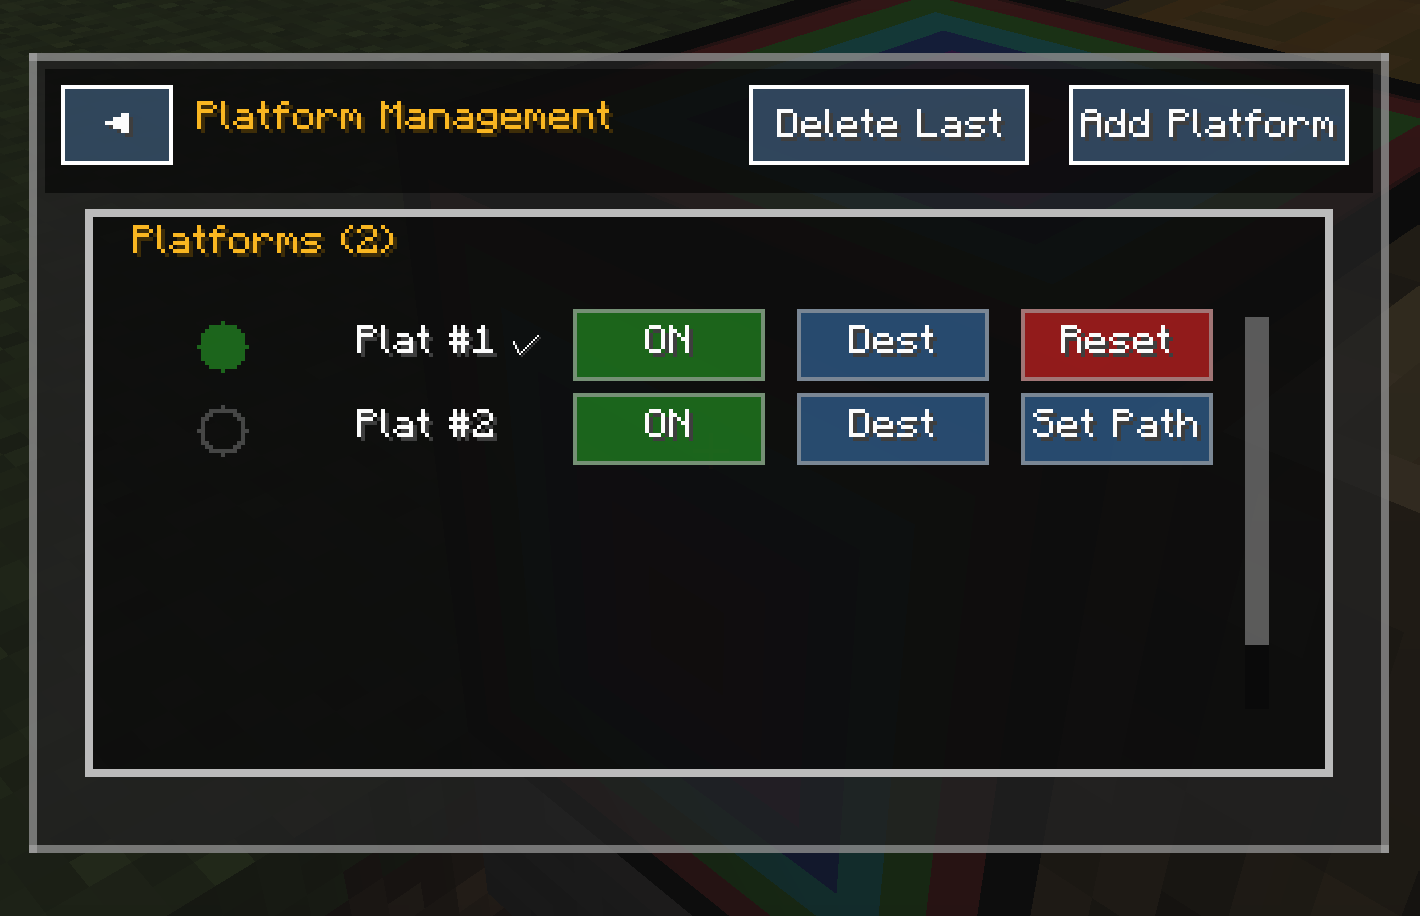
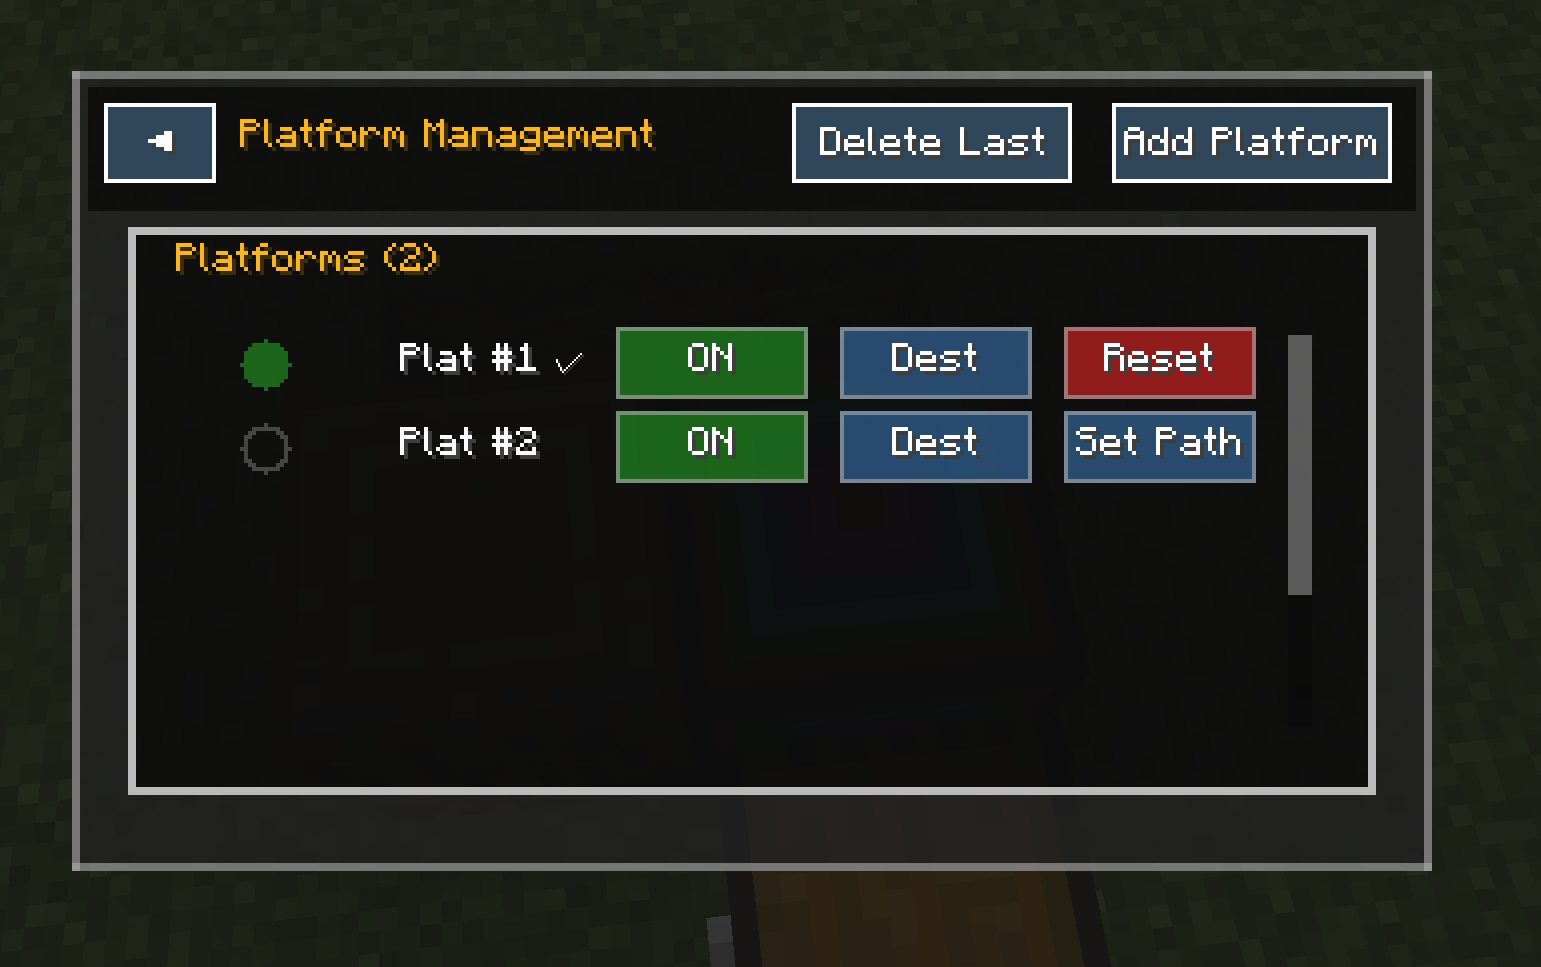
UIGrid scroll updated

Changed region(s): [[0.0, 0.0, 1.0, 1.0], [0.1239, 0.3362, 0.1859, 0.4891], [0.4958, 0.9782, 0.5268, 1.0]]

diff --git a/src/main/java/com/yourdomain/businesscraft/ui/builders/UIGridBuilder.java b/src/main/java/com/yourdomain/businesscraft/ui/builders/UIGridBuilder.java
@@ -53,6 +53,7 @@ public class UIGridBuilder {
     private boolean verticalScrolling = false;
     private int visibleRows = 0;
     private int totalRows = 0;
+    private boolean autoVisibleRows = false; // Track if we're using auto-calculated visible rows
     
     // Custom row height (default 14px - drastically smaller than before)
     private Integer customRowHeight = 14;
@@ -228,6 +229,7 @@ public class UIGridBuilder {
     public UIGridBuilder withVerticalScroll(boolean enable, int visibleRows) {
         this.verticalScrollEnabled = enable;
         this.visibleRows = visibleRows;
+        this.autoVisibleRows = false; // Using static visible rows
         this.totalRows = rows;
         if (enable) {
             this.maxVerticalScrollOffset = Math.max(0, totalRows - visibleRows);
@@ -238,6 +240,46 @@ public class UIGridBuilder {
             x, y, enable, visibleRows, totalRows));
         
         return this;
+    }
+    
+    /**
+     * Enables vertical scrolling with automatic visible row calculation based on available height.
+     * This replaces static visible row counts with dynamic calculations.
+     * 
+     * @param enable Whether to enable vertical scrolling
+     * @return This builder for chaining
+     */
+    public UIGridBuilder withVerticalScrollAuto(boolean enable) {
+        this.verticalScrollEnabled = enable;
+        this.autoVisibleRows = enable; // Track that we're using auto calculation
+        
+        if (enable) {
+            // Calculate visible rows based on available height and row specifications
+            int effectiveRowHeight = getEffectiveRowHeight();
+            int availableHeight = this.height - (verticalMargin * 2);
+            
+            // Calculate how many rows can fit in the available space
+            int calculatedVisibleRows = Math.max(1, availableHeight / effectiveRowHeight);
+            
+            this.visibleRows = calculatedVisibleRows;
+            this.totalRows = rows;
+            this.maxVerticalScrollOffset = Math.max(0, totalRows - visibleRows);
+            
+            DebugConfig.debug(LOGGER, DebugConfig.UI_GRID_BUILDER, 
+                String.format("[GRID AUTO-SCROLL] Grid at (%d,%d) auto-calculated: availableHeight=%d, rowHeight=%d, visibleRows=%d, totalRows=%d", 
+                x, y, availableHeight, effectiveRowHeight, visibleRows, totalRows));
+        }
+        
+        return this;
+    }
+    
+    /**
+     * Gets the effective row height including spacing
+     * @return The calculated row height
+     */
+    private int getEffectiveRowHeight() {
+        int baseRowHeight = customRowHeight != null ? customRowHeight : 16;
+        return baseRowHeight + verticalSpacing;
     }
     
     /**
@@ -272,6 +314,18 @@ public class UIGridBuilder {
         this.totalRows = newTotalRows;
         
         if (verticalScrollEnabled) {
+            // Recalculate visible rows if we're using auto mode
+            if (autoVisibleRows) {
+                int effectiveRowHeight = getEffectiveRowHeight();
+                int availableHeight = this.height - (verticalMargin * 2);
+                int calculatedVisibleRows = Math.max(1, availableHeight / effectiveRowHeight);
+                this.visibleRows = calculatedVisibleRows;
+                
+                DebugConfig.debug(LOGGER, DebugConfig.UI_GRID_BUILDER, 
+                    "Auto-recalculated visible rows: availableHeight={}, rowHeight={}, visibleRows={}", 
+                    availableHeight, effectiveRowHeight, visibleRows);
+            }
+            
             this.maxVerticalScrollOffset = Math.max(0, totalRows - visibleRows);
             // Clamp current offset to new valid range
             setVerticalScrollOffset(verticalScrollOffset);

diff --git a/src/main/java/com/yourdomain/businesscraft/ui/screens/platform/PlatformManagementScreenV2.java b/src/main/java/com/yourdomain/businesscraft/ui/screens/platform/PlatformManagementScreenV2.java
@@ -103,8 +103,8 @@ public class PlatformManagementScreenV2 extends Screen {
             .drawBackground(false)
             .drawBorder(false);
         
-        // Always enable scrolling to handle dynamic platform additions (show 5 visible rows)
-        platformListGrid.withVerticalScroll(true, 5);
+        // Enable auto-scrolling - let UIGrid calculate visible rows from available height
+        platformListGrid.withVerticalScrollAuto(true);
         platformListGrid.updateTotalRows(Math.max(platforms.size(), 6));
         
         // Populate with initial data

diff --git a/src/main/java/com/yourdomain/businesscraft/ui/screens/town/PaymentBoardScreen.java b/src/main/java/com/yourdomain/businesscraft/ui/screens/town/PaymentBoardScreen.java
@@ -334,7 +334,7 @@ public class PaymentBoardScreen extends AbstractContainerScreen<PaymentBoardMenu
             
         // Set up scrolling if we have more than 3 rewards
         if (currentRewards.size() > 3) {
-            paymentBoardGrid.withVerticalScroll(true, 3); // Show 3 rows, scroll for more
+            paymentBoardGrid.withVerticalScrollAuto(true); // Auto-calculate visible rows based on available height
             paymentBoardGrid.updateTotalRows(currentRewards.size());
         }
         

diff --git a/src/main/java/com/yourdomain/businesscraft/ui/screens/platform/DestinationsScreenV2.java b/src/main/java/com/yourdomain/businesscraft/ui/screens/platform/DestinationsScreenV2.java
@@ -143,7 +143,7 @@ public class DestinationsScreenV2 extends Screen {
         
         // Set up scrolling if we have more than 5 destinations
         if (currentDestinations.size() > 5) {
-            destinationsGrid.withVerticalScroll(true, 5);
+            destinationsGrid.withVerticalScrollAuto(true);
             destinationsGrid.updateTotalRows(currentDestinations.size());
         }
         
